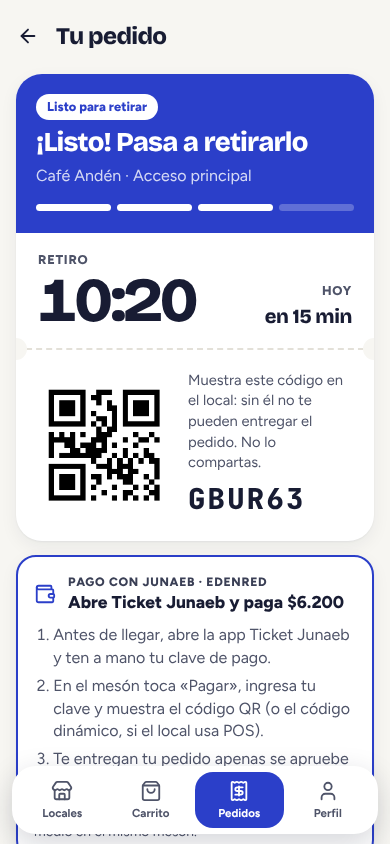
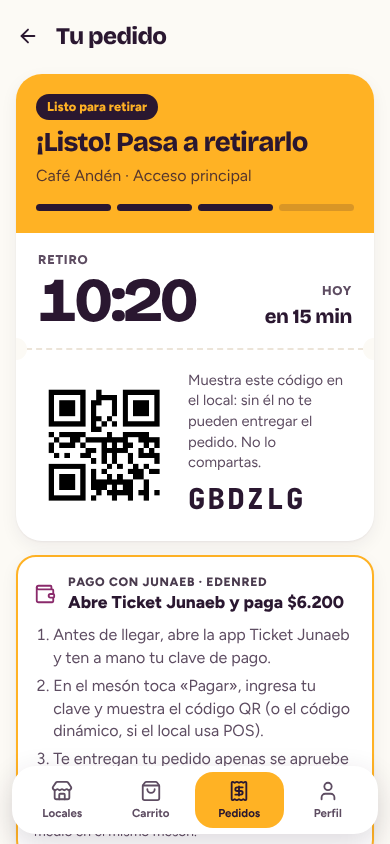
Paleta mango y açaí, con colores de comida
- Amarillo mango para las acciones y la hora más cercana, açaí (morado berry
  muy oscuro) para el texto y los acentos, mango pálido en los paneles y papel
  tibio de fondo. Distinta de los rojos, naranjos y verdes de las apps de
  delivery y del rojo con café de Burger King.
- La palabra destacada de los títulos va con un trazo de destacador mango.
- Íconos provisorios con el nombre en açaí sobre mango.

Claude-Session: https://claude.ai/code/session_01VS4QhXZKvuctXK2dPUQ6e4

diff --git a/src/styles.css b/src/styles.css
@@ -1,54 +1,54 @@
-/* GoBite — sistema visual
-   Azul ultramar sobre papel claro, con durazno como color cálido de apoyo. El ultramar marca "lo que puedes hacer
-   ahora" (la hora más cercana, el botón principal, el pedido listo); el durazno, los paneles destacados.
-   Interfaz clara: los bloques sólidos oscuros quedan solo para el texto. */
+/* GoBite — sistema visual: mango y açaí.
+   Amarillo mango para "lo que puedes hacer ahora" (la hora más cercana, el botón principal, el pedido listo), açaí
+   (un morado berry muy oscuro) para el texto y los acentos, y papel tibio de fondo. Colores de fruta y de bowl:
+   cálidos y de comida, distintos de los rojos, naranjos y verdes de las apps de delivery. Interfaz clara. */
 :root {
   --font-display: 'Bricolage Grotesque Variable', 'Figtree Variable', system-ui, -apple-system, 'Segoe UI', Roboto, sans-serif;
   --font-body: 'Figtree Variable', system-ui, -apple-system, 'Segoe UI', Roboto, sans-serif;
   --font-mono: 'JetBrains Mono Variable', ui-monospace, 'SF Mono', Menlo, Consolas, monospace;
 
-  --bg: #f7f6f2;
+  --bg: #fcfaf5;
   --surface: #ffffff;
-  --surface-2: #efede7;
-  --ink: #181c33;
-  --ink-2: #4f5469;
-  --ink-3: #80859a;
-  --line: #e3e0d8;
-  --accent: #2b3fc9;
-  --accent-strong: #2233a8;
-  --accent-rgb: 43, 63, 201;
-  --on-accent: #ffffff;
+  --surface-2: #f5f0e7;
+  --ink: #2a1730;
+  --ink-2: #5e4d62;
+  --ink-3: #8d7f90;
+  --line: #ece4d8;
+  --accent: #ffb224;
+  --accent-strong: #f5a10a;
+  --accent-rgb: 255, 178, 36;
+  --on-accent: #2a1730;
   --outline: transparent;
-  --link: #2233a8;
-  /* Superficie suave del acento: botones secundarios, selección, contadores. */
-  --soft: #e7eafc;
-  --on-soft: #1f2d97;
-  /* Paneles destacados (portada, encabezados): durazno pálido. */
-  --dark: #ffe8da;
-  --on-dark: #181c33;
-  --on-dark-2: #5b5260;
-  --veil: rgba(24, 28, 51, 0.06);
-  --veil-2: rgba(24, 28, 51, 0.12);
-  --pop: #2b3fc9; /* resalte sobre los paneles destacados */
-  --warn: #e0a019;
-  --warn-soft: #fdf0cf;
-  --warn-text: #6d4b00;
+  --link: #8a2a6b;
+  /* Superficie suave de açaí: botones secundarios, selección, contadores. */
+  --soft: #f6e8f2;
+  --on-soft: #7a2460;
+  /* Paneles destacados (portada, encabezados): mango pálido. */
+  --dark: #ffefc9;
+  --on-dark: #2a1730;
+  --on-dark-2: #6a5560;
+  --veil: rgba(42, 23, 48, 0.06);
+  --veil-2: rgba(42, 23, 48, 0.12);
+  --pop: #8a2a6b; /* resalte sobre los paneles destacados */
+  --warn: #e8771a;
+  --warn-soft: #ffe8d4;
+  --warn-text: #8a3b00;
   --info: #2f86c4;
   --info-soft: #e1f0fa;
   --info-text: #1d5c8a;
-  --ok-soft: #e2f3ea;
-  --ok-text: #1e6943;
+  --ok-soft: #e2f3e4;
+  --ok-text: #22693a;
   --danger: #d23b2b;
   --danger-soft: #fde4df;
   --danger-text: #9b2414;
   /* Junaeb es un medio de pago más: tono neutro, sin destacarlo. */
-  --baes: #4f5469;
-  --baes-soft: #efede7;
-  --baes-text: #3a3f55;
-  --bar: #dcd9d1;
-  --bar-hot: #2b3fc9;
-  --shadow: 0 1px 2px rgba(24, 28, 51, 0.05), 0 6px 18px rgba(24, 28, 51, 0.06);
-  --shadow-up: 0 10px 30px rgba(24, 28, 51, 0.18);
+  --baes: #5e4d62;
+  --baes-soft: #f5f0e7;
+  --baes-text: #4a3b4e;
+  --bar: #e6ded2;
+  --bar-hot: #8a2a6b;
+  --shadow: 0 1px 2px rgba(42, 23, 48, 0.05), 0 6px 18px rgba(42, 23, 48, 0.06);
+  --shadow-up: 0 10px 30px rgba(42, 23, 48, 0.16);
   --r: 20px;
   --pad: 16px;
   --safe-b: env(safe-area-inset-bottom, 0px);
@@ -58,42 +58,44 @@
 /* Tema oscuro: opcional, se elige en el perfil. */
 @media all {
   :root[data-theme='dark'] {
-    --bg: #12141f;
-    --surface: #1a1d2b;
-    --surface-2: #242838;
-    --ink: #eff0f6;
-    --ink-2: #b4b8ca;
-    --ink-3: #82879c;
-    --line: #2c3043;
-    --accent: #4a5ef0;
-    --accent-strong: #5c6ff5;
-    --accent-rgb: 74, 94, 240;
+    --bg: #18111b;
+    --surface: #221926;
+    --surface-2: #2d2231;
+    --ink: #f7f0f4;
+    --ink-2: #c7b8c4;
+    --ink-3: #94859a;
+    --line: #382b3d;
+    --accent: #ffb224;
+    --accent-strong: #ffc152;
+    --accent-rgb: 255, 178, 36;
+    --on-accent: #2a1730;
     --outline: transparent;
-    --link: #a3afff;
-    --soft: #262c4f;
-    --on-soft: #c9d0ff;
-    --dark: #2a2329;
-    --on-dark: #f6efea;
-    --on-dark-2: #cbbfb9;
+    --link: #f2a7d6;
+    --soft: #3a2340;
+    --on-soft: #f3c6e4;
+    --dark: #33262a;
+    --on-dark: #fbf1e6;
+    --on-dark-2: #d6c4bb;
     --veil: rgba(255, 255, 255, 0.07);
     --veil-2: rgba(255, 255, 255, 0.13);
-    --pop: #ffb996;
-    --warn-soft: #3a2e0c;
-    --warn-text: #f3c968;
-    --info-soft: #1e2546;
-    --info-text: #b4bfff;
+    --pop: #ffb224;
+    --warn: #ff9a45;
+    --warn-soft: #3a240f;
+    --warn-text: #ffbe85;
+    --info-soft: #17283a;
+    --info-text: #a6d2f2;
     --ok-soft: #14301f;
     --ok-text: #96dbb3;
     --danger: #ff6b52;
     --danger-soft: #3d1810;
     --danger-text: #ff9c8a;
-    --baes: #b4b8ca;
-    --baes-soft: #242838;
-    --baes-text: #d5d8e4;
-    --bar: #343950;
-    --bar-hot: #6f80ff;
-    --shadow: 0 0 0 1px #262a3b;
-    --shadow-up: 0 10px 30px rgba(0, 0, 0, 0.55), 0 0 0 1px #2c3043;
+    --baes: #c7b8c4;
+    --baes-soft: #2d2231;
+    --baes-text: #e3d8e0;
+    --bar: #3f3244;
+    --bar-hot: #ffb224;
+    --shadow: 0 0 0 1px #2e2333;
+    --shadow-up: 0 10px 30px rgba(0, 0, 0, 0.55), 0 0 0 1px #382b3d;
     color-scheme: dark;
   }
 }
@@ -174,7 +176,7 @@ svg {
   white-space: nowrap;
 }
 .logo .go {
-  color: var(--accent);
+  color: var(--pop);
 }
 .logo-lg {
   font-size: 1.9rem;
@@ -224,11 +226,11 @@ svg {
   animation: grab-hand 2s cubic-bezier(0.6, 0, 0.3, 1) infinite;
 }
 .grab-ink {
-  fill: #181c33;
+  fill: #2a1730;
 }
 .grab-lime {
-  fill: #2b3fc9;
-  stroke: #181c33;
+  fill: #ffb224;
+  stroke: #2a1730;
   stroke-width: 4;
   stroke-linejoin: round;
 }
@@ -241,14 +243,14 @@ svg {
 }
 .grab-skin {
   fill: #fff;
-  stroke: #181c33;
+  stroke: #2a1730;
   stroke-width: 4;
   stroke-linejoin: round;
   stroke-linecap: round;
 }
 .grab-line {
   fill: none;
-  stroke: #181c33;
+  stroke: #2a1730;
   stroke-width: 5;
   stroke-linecap: round;
 }
@@ -405,13 +407,13 @@ svg {
   letter-spacing: -0.035em;
   line-height: 1.02;
 }
+/* Palabra destacada de los títulos: un trazo de destacador mango bajo la palabra. */
 mark {
-  background: none;
-  color: var(--accent);
-  text-decoration: underline;
-  text-decoration-thickness: 0.09em;
-  text-underline-offset: 0.12em;
-  text-decoration-skip-ink: none;
+  color: inherit;
+  background: linear-gradient(transparent 56%, var(--accent) 56%, var(--accent) 90%, transparent 90%);
+  padding: 0 0.06em;
+  -webkit-box-decoration-break: clone;
+  box-decoration-break: clone;
 }
 
 /* ---------- utilidades ---------- */
@@ -1544,7 +1546,7 @@ label small {
 .ticket-listo .ticket-stub {
   background: transparent;
   color: var(--on-accent);
-  border-left-color: rgba(255, 255, 255, 0.35);
+  border-left-color: rgba(42, 23, 48, 0.25);
 }
 
 .again,
@@ -1948,7 +1950,7 @@ label small {
   flex: 1;
   height: 7px;
   border-radius: 99px;
-  background: rgba(255, 255, 255, 0.18);
+  background: var(--veil-2);
 }
 .progress li.done {
   background: var(--pop);
@@ -1966,7 +1968,7 @@ label small {
   color: var(--accent);
 }
 .pass-listo .progress li {
-  background: rgba(255, 255, 255, 0.25);
+  background: rgba(42, 23, 48, 0.18);
 }
 .pass-listo .progress li.done {
   background: var(--on-accent);
@@ -2847,7 +2849,7 @@ th.num {
 }
 .notice-break svg,
 .break-card > svg {
-  color: var(--accent);
+  color: var(--pop);
   flex: none;
 }
 .break-card {
@@ -2943,7 +2945,7 @@ th.num {
   align-items: center;
 }
 .baes-pay header > svg {
-  color: var(--accent);
+  color: var(--pop);
   flex: none;
 }
 .baes-pay header .grow {

diff --git a/index.html b/index.html
@@ -3,7 +3,7 @@
   <head>
     <meta charset="UTF-8" />
     <meta name="viewport" content="width=device-width, initial-scale=1, viewport-fit=cover" />
-    <meta name="theme-color" content="#2b3fc9" />
+    <meta name="theme-color" content="#ffb224" />
     <meta name="color-scheme" content="light dark" />
     <meta name="description" content="Pide entre clases y retira sin fila: elige la hora de retiro según tus recreos." />
     <meta name="mobile-web-app-capable" content="yes" />

diff --git a/public/sw.js b/public/sw.js
@@ -1,6 +1,6 @@
 // Service worker de GoBite: permite instalar la app, abrirla con mala señal
 // y recibir avisos aunque esté cerrada. Nunca guarda respuestas de la API.
-const CACHE = 'gobite-v5';
+const CACHE = 'gobite-v6';
 const SHELL = ['/', '/manifest.webmanifest', '/icon-192.png'];
 
 self.addEventListener('install', (event) => {
